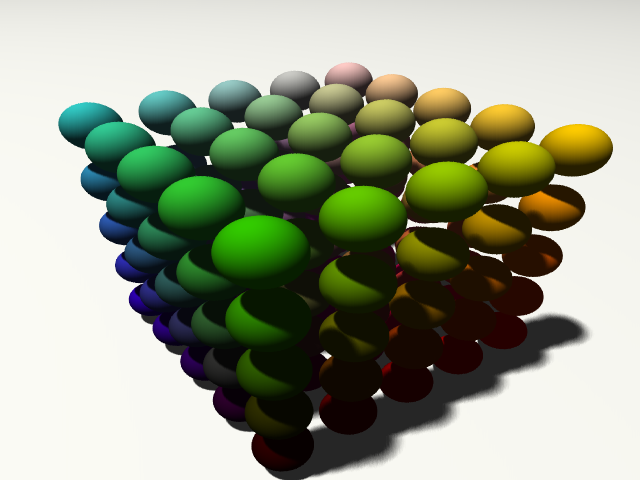
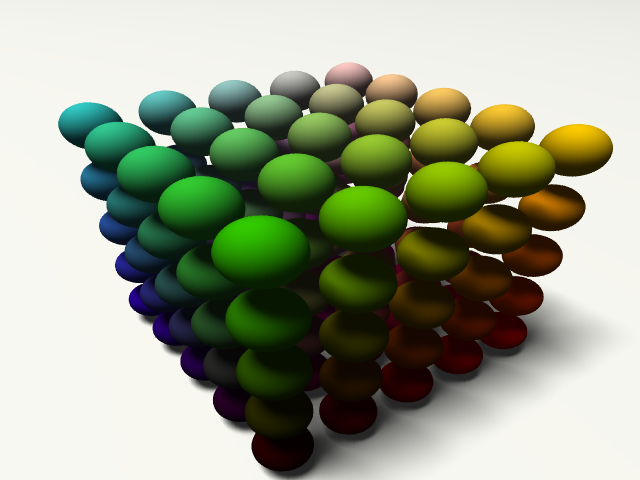
Update examples, higher quality

diff --git a/FuzzyTracer/FuzzyTracer.cpp b/FuzzyTracer/FuzzyTracer.cpp
@@ -43,12 +43,12 @@ int _tmain(int argc, _TCHAR* argv[])
 	plane->SetColour(Colour(1,1,1));
 	e.AddObject(plane);
 
-    auto light = std::make_shared<AreaLight>(3, 3);
+    auto light = std::make_shared<AreaLight>(16, 16);
 	light->SetObjectMatrix(
-		Matrix::Translate(Vector(-50, 200, 10)).Multiply(
-		Matrix::Scale(Vector(3, 0, 3)))
+		Matrix::Translate(Vector(-100, 400, 10)).Multiply(
+		Matrix::Scale(Vector(8, 0, 8)))
 		);
-	light->SetColour(Colour(1.0, 1.0, 0.97));
+	light->SetColour(Colour(1.0, 1.0,  0.97));
 	e.AddLight(light);
 
 	e.Width = 640;

diff --git a/README.md b/README.md
@@ -45,7 +45,13 @@ feels like a bad code smell to me now.*
 
 ###Monte-Carlo tracing
 
-Soft shadows, fuzzy reflections and all that other pretty stuff.
+Soft shadows, fuzzy reflections and all that other pretty stuff. The example
+above uses an area light with 16x16 samples per illumination calculation;
+the example below is the same scene with 3x3 samples:
+
+![Small, lower-quality example](https://raw.githubusercontent.com/cawhitworth/fuzzytracer/master/Examples/colourcube_lo.png)
+
+(both examples use 16x oversampling)
 
 ###Tests
 
